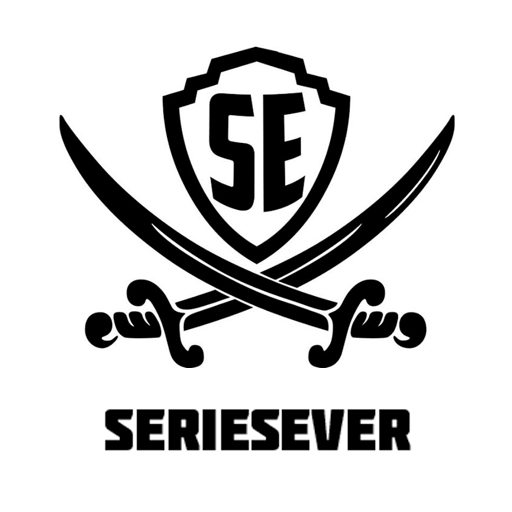
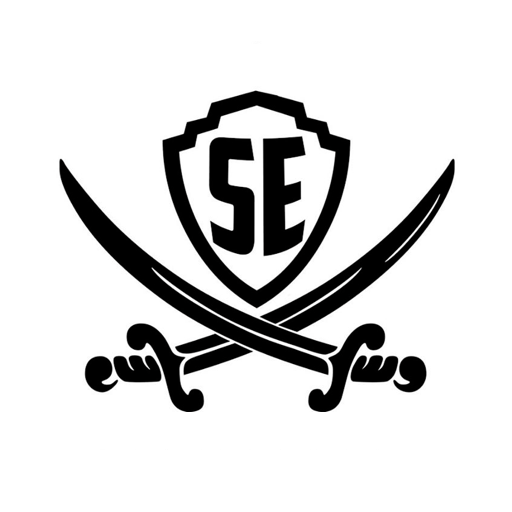
update site-plugins
hdfilme:
- add more show options for films or series
- change variable name

burningseries:
- little preparation for right representation of GlobalSearch results

seriesever:
- update site-art for seriesever

Changed region(s): [[0.0938, 0.0938, 0.9062, 0.9062], [0.5312, 0.3125, 0.5625, 0.3438]]

diff --git a/sites/bs_to.py b/sites/bs_to.py
@@ -1,0 +1,326 @@
+# -*- coding: utf-8 -*-
+from resources.lib.gui.gui import cGui
+from resources.lib.util import cUtil
+from resources.lib.gui.guiElement import cGuiElement
+from resources.lib.handler.requestHandler import cRequestHandler
+from resources.lib.parser import cParser
+from resources.lib.handler.ParameterHandler import ParameterHandler
+from resources.lib.config import cConfig
+from resources.lib import logger
+import string
+import json
+import random
+from resources.lib.bs_finalizer import *
+
+# "Global" variables
+SITE_IDENTIFIER = 'bs_to'
+SITE_NAME = 'BurningSeries'
+SITE_ICON = 'burning_series.png'
+
+URL_MAIN = 'https://www.bs.to/api/'
+URL_COVER = 'https://s.bs.to/img/cover/%s.jpg|encoding=gzip'
+
+# Mainmenu
+def load():
+    logger.info("Load %s" % SITE_NAME)
+    oGui = cGui()
+    oGui.addFolder(cGuiElement('Alle Serien', SITE_IDENTIFIER, 'showSeries'))
+    oGui.addFolder(cGuiElement('A-Z', SITE_IDENTIFIER, 'showCharacters'))
+    oGui.addFolder(cGuiElement('Zufall', SITE_IDENTIFIER, 'showRandom'))
+    oGui.addFolder(cGuiElement('Suche', SITE_IDENTIFIER, 'showSearch'))
+    oGui.setEndOfDirectory()
+
+### Mainmenu entries
+
+# Show all series in a big list
+def showSeries():
+    oGui = cGui()
+    oParams = ParameterHandler()
+    sChar = oParams.getValue('char')
+    if sChar: sChar = sChar.lower()
+    series = _getJsonContent("series")
+    total = len(series)
+    for serie in series:
+        sTitle = serie["series"].encode('utf-8')
+        if sChar:
+            if sChar == '#':
+                if sTitle[0].isalpha(): continue
+            elif sTitle[0].lower() != sChar: continue
+        if oParams.getValue('specific') == 'Season':
+            guiElement = cGuiElement(sTitle, SITE_IDENTIFIER, 'randomSeason')
+        else:
+            guiElement = cGuiElement(sTitle, SITE_IDENTIFIER, 'showSeasons')
+        guiElement.setMediaType('tvshow')
+        guiElement.setThumbnail(URL_COVER % serie["id"])
+        # Load series description by iteration through the REST-Api (slow)
+        #sDesc = _getJsonContent("series/%d/1" % int(serie['id']))
+        #guiElement.setDescription(sDesc['series']['description'].encode('utf-8'))
+        #sStart = str(sDesc['series']['start'])
+        #if sStart != 'None':
+        #   guiElement.setYear(int(sDesc['series']['start']))
+        oParams.addParams({'seriesID' : str(serie["id"]), 'Title' : sTitle})
+        oGui.addFolder(guiElement, oParams, iTotal = total)
+
+    oGui.setView('tvshows')
+    oGui.setEndOfDirectory()
+
+# Show an alphabetic list 'A-Z' prepended by '#' for alphanumeric series
+def showCharacters():
+    oGui = cGui()
+    oGuiElement = cGuiElement()
+    oParams = ParameterHandler()
+    oGuiElement = cGuiElement('#', SITE_IDENTIFIER, 'showSeries')
+    oParams.setParam('char', '#')
+    oGui.addFolder(oGuiElement, oParams)
+    for letter in string.uppercase[:26]:
+        oGuiElement = cGuiElement(letter, SITE_IDENTIFIER, 'showSeries')
+        oParams.setParam('char', letter)
+        oGui.addFolder(oGuiElement, oParams)
+    oGui.setEndOfDirectory()
+
+# Show the search dialog, return/abort on empty input
+def showSearch():
+    oGui = cGui()
+    sSearchText = oGui.showKeyBoard()
+    if not sSearchText: return
+    _search(oGui, sSearchText)
+    oGui.setEndOfDirectory()
+
+### Helper functions
+
+# Load a JSON object
+def _getJsonContent(urlPart):
+    request = cRequestHandler(URL_MAIN + urlPart)
+    mod_request(request, urlPart)
+    return json.loads(request.request())
+
+# Search for series using the requested string sSearchText
+def _search(oGui, sSearchText):
+    params = ParameterHandler()
+    series = _getJsonContent("series")
+    total = len(series)
+    sSearchText = sSearchText.lower()
+    for serie in series:
+        sTitle = serie["series"].encode('utf-8')
+        if sTitle.lower().find(sSearchText) == -1: continue
+        guiElement = cGuiElement(sTitle, SITE_IDENTIFIER, 'showSeasons')
+        guiElement.setMediaType('tvshow')
+        guiElement.setThumbnail(URL_COVER % serie["id"])
+        params.addParams({'seriesID' : str(serie["id"]), 'Title' : sTitle})
+        oGui.addFolder(guiElement, params, iTotal = total)
+
+# Show a list of seasons for a requested series, and movies if available
+def showSeasons():
+    oGui = cGui()
+    params = ParameterHandler()
+    sTitle = params.getValue('Title')
+    seriesId = params.getValue('seriesID')
+    sImdb = params.getValue('imdbID')
+
+    logger.info("%s: show seasons of '%s' " % (SITE_NAME, sTitle))
+
+    data = _getJsonContent("series/%s/1" % seriesId)
+    rangeStart = not int(data["series"]["movies"])
+    total = int(data["series"]["seasons"])
+    for i in range(rangeStart, total + 1):
+        seasonNum = str(i)
+        if i is 0:
+            seasonTitle = 'Film(e)'
+            dialogType = 'showCinemaMovies'
+        else:
+            seasonTitle = '%s - Staffel %s' %(sTitle, seasonNum)
+            if params.getValue('specific') == 'Episode':
+                dialogType = 'randomEpisode'
+            else:
+                dialogType = 'showEpisodes'
+        guiElement = cGuiElement(seasonTitle, SITE_IDENTIFIER, dialogType)
+        guiElement.setMediaType('season')
+        guiElement.setSeason(seasonNum)
+        guiElement.setTVShowTitle(sTitle)
+
+        params.setParam('Season', seasonNum)
+        guiElement.setThumbnail(URL_COVER % data["series"]["id"])
+        oGui.addFolder(guiElement, params, iTotal = total)
+    oGui.setView('seasons')
+    oGui.setEndOfDirectory()
+
+# Show episodes of a requested season for a series
+def showEpisodes():
+    oGui = cGui()
+    oParams = ParameterHandler()
+    sShowTitle = oParams.getValue('Title')
+    seriesId = oParams.getValue('seriesID')
+    sImdb = oParams.getValue('imdbID')
+    sSeason = oParams.getValue('Season')
+
+    logger.info("%s: show episodes of '%s' season '%s' " % (SITE_NAME, sShowTitle, sSeason))
+
+    data = _getJsonContent("series/%s/%s" % (seriesId, sSeason))
+    total = len(data['epi'])
+    for episode in data['epi']:
+        title = "%d - " % int(episode['epi'])
+        if episode['german']:
+            title += episode['german'].encode('utf-8')
+        else:
+            title += episode['english'].encode('utf-8')
+        guiElement = cGuiElement(title, SITE_IDENTIFIER, 'showHosters')
+        guiElement.setMediaType('episode')
+        guiElement.setSeason(data['season'])
+        guiElement.setEpisode(episode['epi'])
+        guiElement.setTVShowTitle(sShowTitle)
+        guiElement.setThumbnail(URL_COVER % data["series"]["id"])
+        oParams.setParam('EpisodeNr', episode['epi'])
+        oGui.addFolder(guiElement, oParams, bIsFolder = False, iTotal = total)
+    oGui.setView('episodes')
+    oGui.setEndOfDirectory()
+
+def showCinemaMovies():
+    oGui = cGui()
+    oParams = ParameterHandler()
+    sShowTitle = oParams.getValue('Title')
+    seriesId = oParams.getValue('seriesID')
+    sImdb = oParams.getValue('imdbID')
+
+    data = _getJsonContent("series/%s/0" % (seriesId))
+    total = len(data['epi'])
+
+    for movie in data['epi']:
+        if movie['german']:
+            title = movie['german'].encode('utf-8')
+        else:
+            title = movie['english'].encode('utf-8')
+        guiElement = cGuiElement(title, SITE_IDENTIFIER, 'showHosters')
+        guiElement.setMediaType('movie')
+        guiElement.setTitle(title)
+        guiElement.setThumbnail(URL_COVER % data["series"]["id"])
+        oParams.setParam('EpisodeNr', movie['epi'])
+        oGui.addFolder(guiElement, oParams, bIsFolder = False, iTotal = total)
+    oGui.setView('movie')
+    oGui.setEndOfDirectory()
+    
+def showRandom():
+    oGui = cGui()
+    oParams = ParameterHandler()
+
+    oGui.addFolder(cGuiElement('Zufällige Serie', SITE_IDENTIFIER, 'randomSerie'))
+    oParams.setParam('specific', 'Season')
+    oGui.addFolder(cGuiElement('Zufällige Staffel', SITE_IDENTIFIER, 'randomSeason'), oParams)
+    oParams.setParam('specific', 'Episode')
+    oGui.addFolder(cGuiElement('Zufällige Episode', SITE_IDENTIFIER, 'randomEpisode'), oParams)
+
+    oGui.setEndOfDirectory()
+
+def randomSerie():
+    oGui = cGui()
+    oParams = ParameterHandler()
+    serie = random.choice(_getJsonContent('series'))
+    sTitle = serie["series"].encode('utf-8')
+    guiElement = cGuiElement(sTitle, SITE_IDENTIFIER, 'showSeasons')
+    guiElement.setMediaType('tvshow')
+    guiElement.setThumbnail(URL_COVER % serie["id"])
+    oParams.addParams({'seriesID': str(serie["id"]), 'Title': sTitle})
+    oGui.addFolder(guiElement, oParams, iTotal=1)
+
+    oGui.setEndOfDirectory()
+
+def randomSeason():
+    oGui = cGui()
+    oParams = ParameterHandler()
+    if oParams.getValue('specific') == 'Season' and not oParams.getValue('seriesID'):
+        showSeries()
+        return
+
+    data = _getJsonContent("series/%s/1" % oParams.getValue('seriesID'))
+
+    seasons = int(data["series"]["seasons"])+1
+
+    randomSeason = random.randrange(1, seasons, 1)
+
+    seasonNum = str(randomSeason)
+    seasonTitle = '%s - Staffel %s' % (oParams.getValue('Title'), seasonNum)
+    dialogType = 'showEpisodes'
+    guiElement = cGuiElement(seasonTitle, SITE_IDENTIFIER, dialogType)
+    guiElement.setMediaType('season')
+    guiElement.setSeason(seasonNum)
+    guiElement.setTVShowTitle(oParams.getValue('Title'))
+
+    oParams.setParam('Season', seasonNum)
+    guiElement.setThumbnail(URL_COVER % data["series"]["id"])
+    oGui.addFolder(guiElement, oParams, iTotal=1)
+
+    oGui.setEndOfDirectory()
+
+def randomEpisode():
+    oGui = cGui()
+    oParams = ParameterHandler()
+    if oParams.getValue('specific') == 'Episode' and not oParams.getValue('seriesID'):
+        showSeries()
+        return
+    elif oParams.getValue('seriesID') and not oParams.getValue('Season'):
+        showSeasons()
+        return
+    else:
+        series = {'id': oParams.getValue('seriesID'), 'series': oParams.getValue('Title')}
+
+    season = _getJsonContent("series/%s/1" % series['id'])
+    randomEpisodeNr = (random.choice(season['epi']))['epi']
+    randomEpisode = filter(lambda person: person['epi'] == randomEpisodeNr, season['epi'])[0]
+
+    Title = season['series']['series'].encode('utf-8') + ' - Staffel ' + str(season['season']) + ' - '
+    if randomEpisode['german']:
+        Title += randomEpisode['german'].encode('utf-8')
+    else:
+        Title += randomEpisode['english'].encode('utf-8')
+
+    guiElement = cGuiElement(Title, SITE_IDENTIFIER, 'showHosters')
+    guiElement.setMediaType('episode')
+    guiElement.setEpisode(randomEpisodeNr)
+    guiElement.setSeason(season['season'])
+    guiElement.setTVShowTitle(series['series'])
+    guiElement.setThumbnail(URL_COVER % int(season['series']['id']))
+    oParams.setParam('EpisodeNr', randomEpisodeNr)
+    oParams.setParam('seriesID', season['series']['id'])
+    oParams.setParam('Season', season['season'])
+    oGui.addFolder(guiElement, oParams, bIsFolder=False, iTotal=1)
+
+    oGui.setView('episodes')
+    oGui.setEndOfDirectory()
+    return
+ 
+# Show a hoster dialog for a requested episode
+def showHosters():
+    oParams= ParameterHandler()
+    sTitle = oParams.getValue('Title')
+    seriesId = oParams.getValue('seriesID')
+    season = oParams.getValue('Season')
+    episode = oParams.getValue('EpisodeNr')
+
+    data = _getJsonContent("series/%s/%s/%s" % (seriesId, season, episode))
+    hosters = []
+    for link in data['links']:
+        hoster = dict()
+        hoster['link'] = URL_MAIN + 'watch/' + link['id']
+        hoster['name'] = link['hoster']
+        hoster['displayedName'] = link['hoster']
+        hosters.append(hoster)
+    if hosters:
+        hosters.append('getHosterUrl')
+    return hosters
+
+# Load a url for a requested host
+def getHosterUrl(sUrl = False):
+    oParams = ParameterHandler()
+    #sTitle = oParams.getValue('Title')
+    #sHoster = oParams.getValue('Hoster')
+    if not sUrl: sUrl = oParams.getValue('url')
+    data = _getJsonContent(sUrl.replace(URL_MAIN, ''))
+    results = []
+    result = {}
+    if data['fullurl'].startswith('http'):
+        result['streamUrl'] = data['fullurl']
+    else:
+        result['streamID'] = data['url']
+        result['host'] = data['hoster']
+    result['resolved'] = False
+    results.append(result)
+    return results

diff --git a/sites/hdfilme_tv.py b/sites/hdfilme_tv.py
@@ -22,8 +22,16 @@ URL_SEARCH = URL_MAIN + 'movie/search?key=%s'
 # Parameter für die Sortierung
 URL_PARMS_ORDER_ID = 'order_f=id'
 URL_PARMS_ORDER_ID_ASC = URL_PARMS_ORDER_ID +'&order_d=asc'
+URL_PARMS_ORDER_YEAR = 'order_f=year'
+URL_PARMS_ORDER_YEAR_ASC = URL_PARMS_ORDER_YEAR +'&order_d=asc'
 URL_PARMS_ORDER_NAME = 'order_f=name'
 URL_PARMS_ORDER_NAME_ASC = URL_PARMS_ORDER_NAME +'&order_d=asc'
+URL_PARMS_ORDER_VIEWS = 'order_f=view'
+URL_PARMS_ORDER_VIEWS_ASC = URL_PARMS_ORDER_VIEWS +'&order_d=asc'
+URL_PARMS_ORDER_IMDB = 'order_f=imdb'
+URL_PARMS_ORDER_IMDB_ASC = URL_PARMS_ORDER_IMDB +'&order_d=asc'
+URL_PARMS_ORDER_HDRATE = 'order_f=rate'
+URL_PARMS_ORDER_HDRATE_ASC = URL_PARMS_ORDER_HDRATE +'&order_d=asc'
 
 QUALITY_ENUM = {'240':0, '360':1, '480':2, '720':3, '1080':4}
 
@@ -60,10 +68,18 @@ def showContentMenu():
     # Einträge anlegen
     params.setParam('sUrl', baseURL + URL_PARMS_ORDER_ID)
     oGui.addFolder(cGuiElement('Neu hinzugefügt', SITE_IDENTIFIER, 'showEntries'), params)
+    params.setParam('sUrl', baseURL + URL_PARMS_ORDER_YEAR_ASC)
+    oGui.addFolder(cGuiElement('Herstellungsjahr', SITE_IDENTIFIER, 'showEntries'), params)
     params.setParam('sUrl', baseURL + URL_PARMS_ORDER_NAME_ASC)
     oGui.addFolder(cGuiElement('Alphabetisch', SITE_IDENTIFIER, 'showEntries'), params)
+    params.setParam('sUrl', baseURL + URL_PARMS_ORDER_VIEWS_ASC)
+    oGui.addFolder(cGuiElement('Top Aufrufe', SITE_IDENTIFIER, 'showEntries'), params)
+    params.setParam('sUrl', baseURL + URL_PARMS_ORDER_IMDB_ASC)
+    oGui.addFolder(cGuiElement('IMDB Punkt', SITE_IDENTIFIER, 'showEntries'), params)
+    params.setParam('sUrl', baseURL + URL_PARMS_ORDER_HDRATE_ASC)
+    oGui.addFolder(cGuiElement('Bewertung HDFilme.tv', SITE_IDENTIFIER, 'showEntries'), params)
     params.setParam('sUrl', baseURL + URL_PARMS_ORDER_NAME_ASC)
-    oGui.addFolder(cGuiElement('Genre',SITE_IDENTIFIER,'showGenreList'), params)   
+    oGui.addFolder(cGuiElement('Genre',SITE_IDENTIFIER,'showGenreList'), params)  
 
     # Liste abschließen
     oGui.setEndOfDirectory() 
